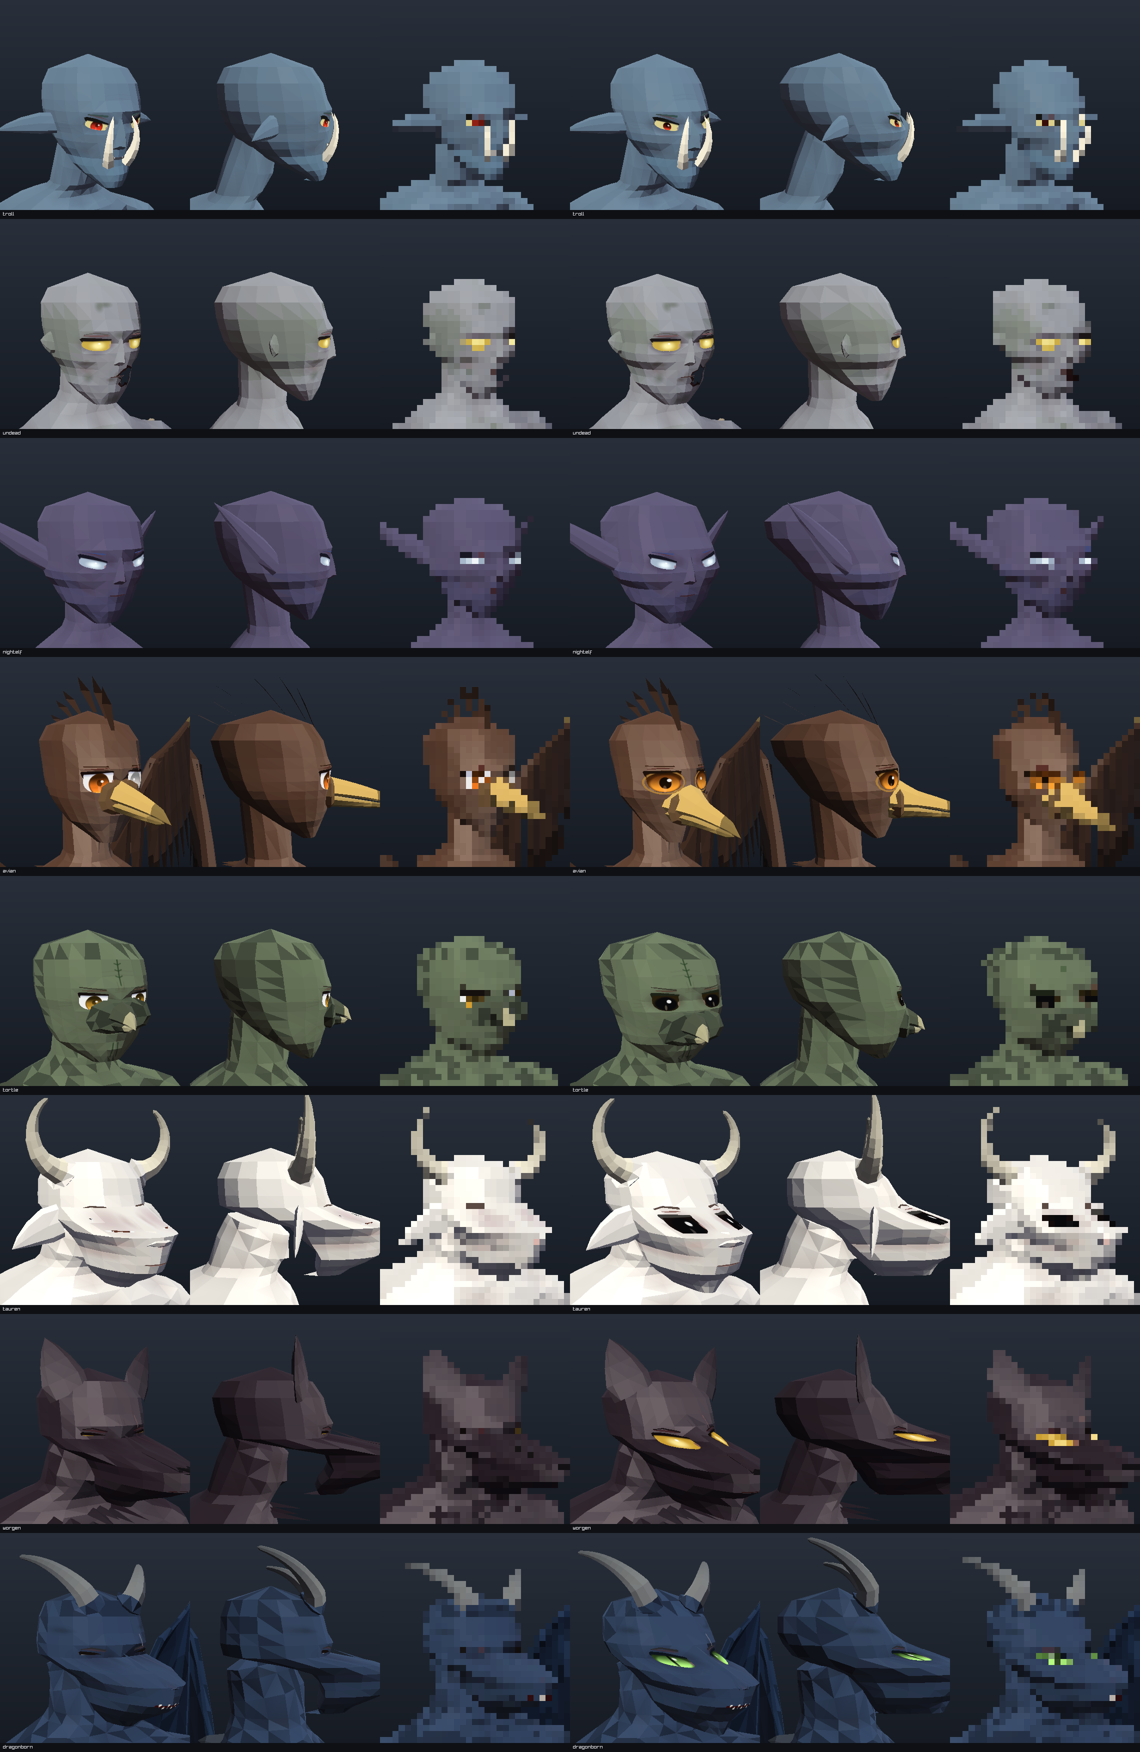
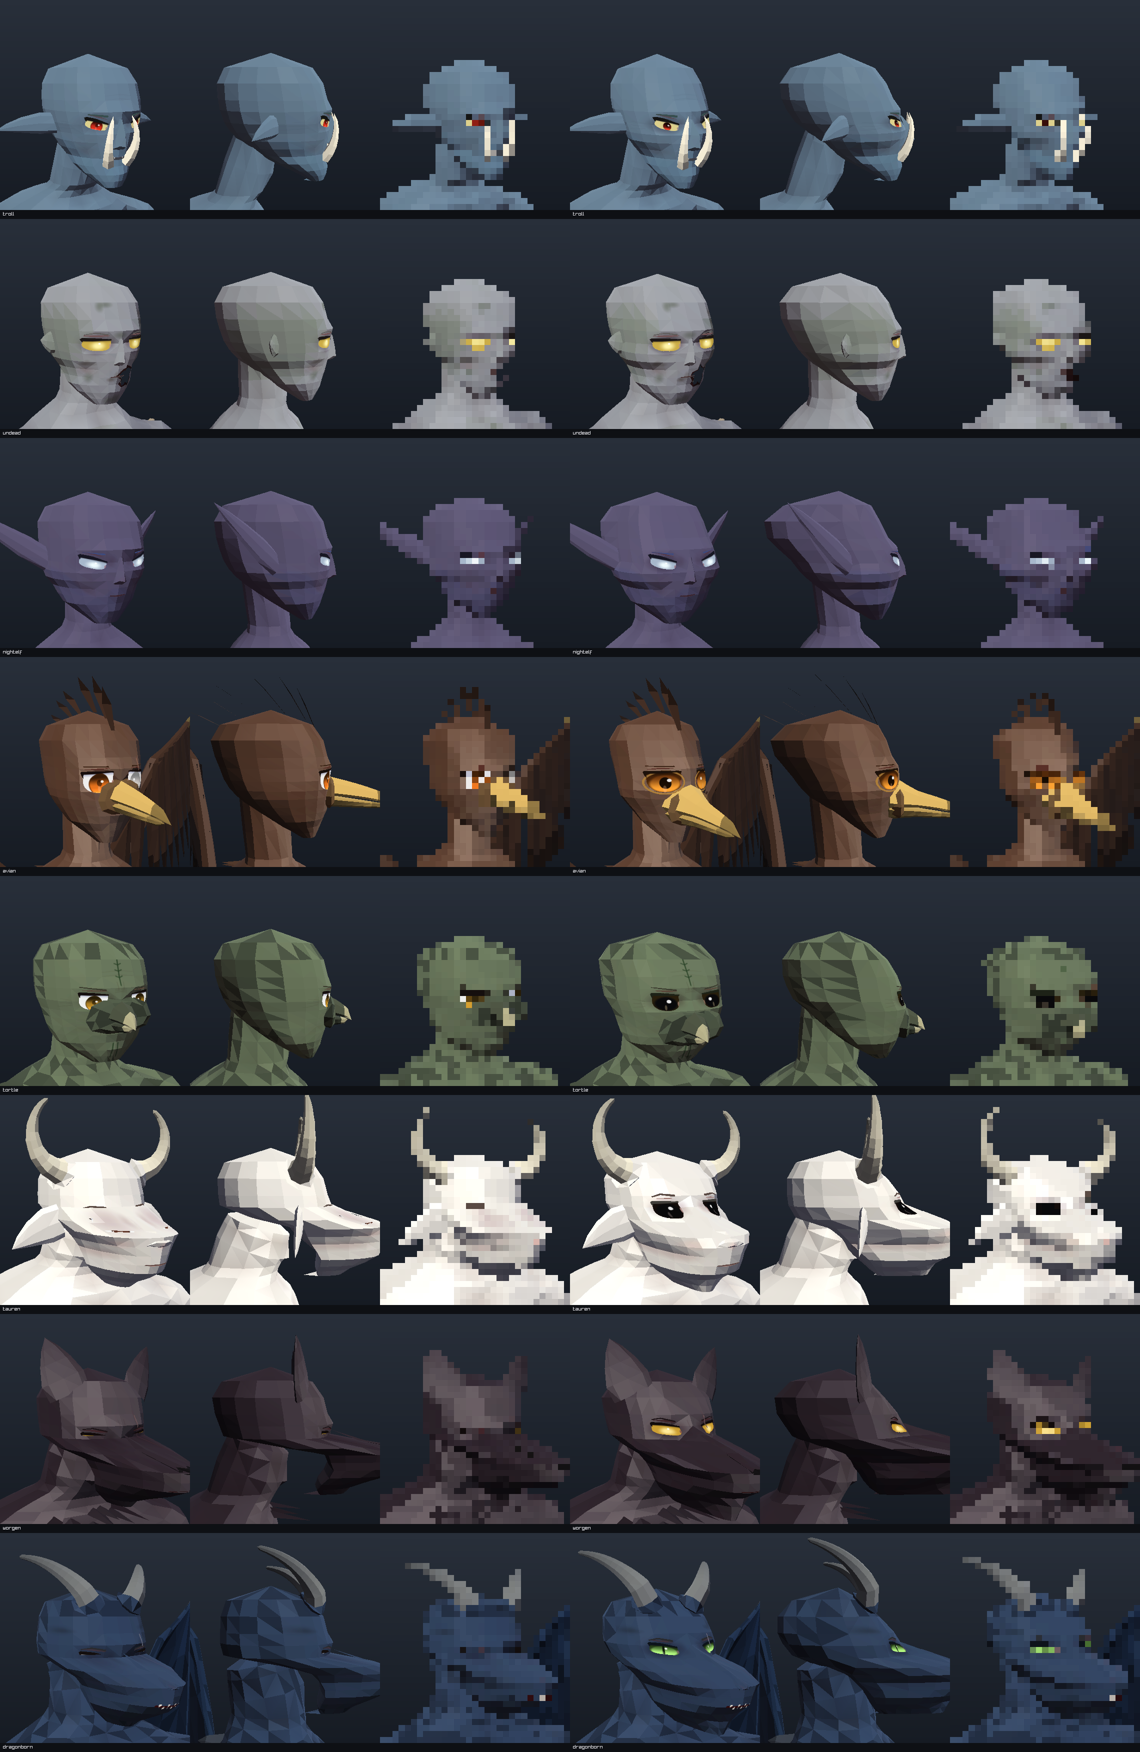
Eyes ride up on the skull above the snout
Snouted heads (tauren, worgen, dragonborn, saurian, beasts) raise the eye line by
eyeLift(g): painted eyes, decal window, sockets and brow relief all move together, so
the eyes sit on the skull above where the muzzle starts instead of on the snout.

Claude-Session: https://claude.ai/code/session_01F1xmFvDZS1791vgqUGMtaU

diff --git a/src/face.cpp b/src/face.cpp
@@ -202,15 +202,16 @@ void paintEyes(CellPainter& cp, const Genome& g, EyeExpr expr) {
     const EyeParams P = eyeParams(expr);
     const EyeShape S = eyeShapeFor(g);
     float W = S.W, Hh = S.Hh;
-    float ey = 0.462f, exOff = 0.188f * f.eyeSpacing;
+    const float lift = eyeLift(g);
+    float ey = 0.462f + lift, exOff = 0.188f * f.eyeSpacing;
     // A second pair (four-eyed peoples) sits below and a little wider, smaller and
     // without brows; the main pair moves up to make room.
     struct Row {
         float ey, ex, scale;
         bool main;
     };
-    std::vector<Row> rows{{0.462f, 0.188f * f.eyeSpacing, 1.0f, true}};
-    if (f.eyePairs >= 2) rows = {{0.506f, 0.180f * f.eyeSpacing, 0.86f, true}, {0.392f, 0.200f * f.eyeSpacing, 0.78f, false}};
+    std::vector<Row> rows{{0.462f + lift, 0.188f * f.eyeSpacing, 1.0f, true}};
+    if (f.eyePairs >= 2) rows = {{0.506f + lift, 0.180f * f.eyeSpacing, 0.86f, true}, {0.392f + lift, 0.200f * f.eyeSpacing, 0.78f, false}};
     const Vec3 lash = lerp(pal.brow * 0.4f, Vec3{0.08f, 0.05f, 0.05f}, 0.6f);
     const Vec3 skinDark = pal.skin * Vec3{0.70f, 0.56f, 0.54f};
     const float lidDrop = saturate(f.restLid + 0.18f * f.ageLines + (f.eyeShape == 5 ? 0.22f : 0.0f) + P.lidDrop);
@@ -652,18 +653,18 @@ void paintSkin(CellPainter& cp, const Genome& g) {
         st.bounds(lo, hi);
         cp.fill(st, Vec4(mul * 0.5f, a), lo, hi);
     };
-    const float ex = (f.eyePairs >= 2 ? 0.180f : 0.188f) * f.eyeSpacing, ey = f.eyePairs >= 2 ? 0.506f : 0.462f;
+    const float ex = (f.eyePairs >= 2 ? 0.180f : 0.188f) * f.eyeSpacing, ey = (f.eyePairs >= 2 ? 0.506f : 0.462f) + eyeLift(g);
     const float sx = (g.seed % 2 == 0) ? 1.0f : -1.0f;  // the side scars and marks favour
 
     // Eye sockets: shade under the brow ridge and around the eye, deeper for deep-set eyes.
     if (f.eyePairs >= 2)  // the lower, smaller pair (the main one is shaded below, moved up)
-        for (float sd : {1.0f, -1.0f}) soft({sd * 0.200f * f.eyeSpacing, 0.398f}, {0.095f, 0.050f}, {0.78f, 0.68f, 0.72f}, 0.40f + 0.50f * f.eyeDepth, 0.8f);
+        for (float sd : {1.0f, -1.0f}) soft({sd * 0.200f * f.eyeSpacing, 0.398f + eyeLift(g)}, {0.095f, 0.050f}, {0.78f, 0.68f, 0.72f}, 0.40f + 0.50f * f.eyeDepth, 0.8f);
     for (float sd : {1.0f, -1.0f}) {
         soft({sd * ex, ey + 0.020f}, {0.150f, f.eyePairs >= 2 ? 0.070f : 0.090f}, {0.80f, 0.70f, 0.74f}, 0.30f + 0.55f * f.eyeDepth, 0.8f);
         // Socket wells: a darker, tighter shadow round the eye that survives at game distance
         // (a dark well with a light point inside reads as an eye in two or three pixels).
         if (g.head.socket > 0.01f)
-            soft({sd * ex, ey + 0.006f}, {0.125f, f.eyePairs >= 2 ? 0.058f : 0.072f}, {0.42f, 0.36f, 0.40f}, 0.75f * g.head.socket * (1.0f - 0.75f * saturate(g.body.muzzle)), 0.6f);
+            soft({sd * ex, ey + 0.006f}, {0.125f, f.eyePairs >= 2 ? 0.058f : 0.072f}, {0.42f, 0.36f, 0.40f}, 0.75f * g.head.socket, 0.6f);
         soft({sd * 0.075f, ey + 0.012f}, {0.050f, 0.060f}, {0.78f, 0.68f, 0.70f}, 0.25f + 0.35f * f.eyeDepth);  // inner corner
         // Tired, puffy under-eyes.
         soft({sd * (ex + 0.005f), ey - 0.062f}, {0.085f, 0.024f}, {0.80f, 0.70f, 0.78f}, 0.55f * f.eyeBags);
@@ -857,7 +858,7 @@ Image paintFaceAtlas(const Genome& g) {
     auto eyeJob = [&](int i) {
         auto c = FaceLayout::eyeCell(EyeExpr(i));
         CellPainter cp(px, W, c[0], c[1], FaceLayout::kEyeCellW, FaceLayout::kEyeCellH, FaceLayout::kEyeX0,
-                       FaceLayout::kEyeX1, FaceLayout::kEyeS0, FaceLayout::kEyeS1);
+                       FaceLayout::kEyeX1, FaceLayout::kEyeS0 + eyeLift(g), FaceLayout::kEyeS1 + eyeLift(g));
         paintEyes(cp, g, EyeExpr(i));
     };
     auto mouthJob = [&](int i) {

diff --git a/src/head.cpp b/src/head.cpp
@@ -29,7 +29,7 @@ float Builder::muzzleDepth(float s) const {
     if (M <= 0.0f) return 0.0f;
     if (g.body.snout == 1) return M * 0.72f * smoothstep(0.445f, 0.355f, s) * (0.35f + 0.65f * smoothstep(0.02f, 0.24f, s));
     if (g.body.snout == 2) return M * 0.62f * smoothstep(0.46f, 0.36f, s) * (0.45f + 0.55f * smoothstep(0.0f, 0.22f, s));
-    return M * 0.46f * smoothstep(0.53f, 0.40f, s) * (0.50f + 0.50f * smoothstep(0.0f, 0.18f, s));
+    return M * 0.46f * smoothstep(0.50f, 0.38f, s) * (0.50f + 0.50f * smoothstep(0.0f, 0.18f, s));
 }
 
 SuperRing Builder::headRing(float s) const {
@@ -96,7 +96,8 @@ float Builder::faceRelief(float xn, float s) const {
     // sockets: the main pair higher under a higher brow, a smaller pair below it set a
     // little wider, a bony ridge between them and the cheekbones pushed down.
     const bool four = f.eyePairs >= 2;
-    const float browS = four ? 0.600f : 0.56f, eyeS = four ? 0.506f : 0.468f, cheekS = four ? 0.330f : 0.375f;
+    const float lift = eyeLift(g);
+    const float browS = (four ? 0.600f : 0.56f) + lift, eyeS = (four ? 0.506f : 0.468f) + lift, cheekS = four ? 0.330f : 0.375f;
     r += (0.006f + 0.026f * f.browRidge + 0.008f * f.eyeDepth) * bump((s - browS) / 0.045f) * bump(xn / 0.36f);
     // On a snout the socket groove would cut a trench across the muzzle: keep it shallow.
     const float snoutK = 1.0f - 0.8f * saturate(muzzleDepth(s) / 0.12f);
@@ -354,7 +355,7 @@ void Builder::buildEyelids() {
     struct Row {
         float ey, ex, scale;
     };
-    const Row rows[] = {{0.506f, 0.180f * f.eyeSpacing, 0.86f}, {0.392f, 0.200f * f.eyeSpacing, 0.78f}};
+    const Row rows[] = {{0.506f + eyeLift(g), 0.180f * f.eyeSpacing, 0.86f}, {0.392f + eyeLift(g), 0.200f * f.eyeSpacing, 0.78f}};
     Part& p = newPart();
     const int head = ch.rig.head;
     const Mat lid{g.palette.skin * 0.92f, MaterialClass::Skin};
@@ -444,7 +445,7 @@ void Builder::buildFaceDecals() {
         auto ok = [&](uint32_t a, uint32_t b, uint32_t c) {
             const Vec3 A = p.pos[a], B = p.pos[b], C = p.pos[c];
             const Vec3 n = normalize(cross(B - A, C - A), {0, 0, 1});
-            // Eyes on a snout sit on the steep sides of the face: keep them, or they vanish.
+            // The eyes keep steeper quads: on a snouted skull they sit where the face turns.
             return std::fabs(n.z) > (kind == SubmeshKind::FaceEyes ? 0.15f : 0.45f) && onHead[a] && onHead[b] && onHead[c];
         };
         for (int j = 0; j < ny; ++j)
@@ -458,7 +459,7 @@ void Builder::buildFaceDecals() {
     auto ec = FaceLayout::eyeCell(EyeExpr::Neutral);
     auto mc = FaceLayout::mouthCell(MouthExpr::Neutral);
     // Dense enough to follow the nose bridge and the sockets.
-    size_t eyes = patch(SubmeshKind::FaceEyes, FaceLayout::kEyeX0, FaceLayout::kEyeX1, FaceLayout::kEyeS0, FaceLayout::kEyeS1,
+    size_t eyes = patch(SubmeshKind::FaceEyes, FaceLayout::kEyeX0, FaceLayout::kEyeX1, FaceLayout::kEyeS0 + eyeLift(g), FaceLayout::kEyeS1 + eyeLift(g),
                         lod.headSeg, std::max(4, lod.headSeg / 3), ec[0], ec[1], FaceLayout::kEyeCellW, FaceLayout::kEyeCellH);
     size_t mouth = patch(SubmeshKind::FaceMouth, FaceLayout::kMouthX0, FaceLayout::kMouthX1, FaceLayout::kMouthS0,
                          FaceLayout::kMouthS1, std::max(6, lod.headSeg / 2), 8, mc[0], mc[1], FaceLayout::kMouthCellW,

diff --git a/include/chargen/genome.hpp b/include/chargen/genome.hpp
@@ -342,6 +342,10 @@ struct Genome {
     HeadForm head;             // last: snapshots saved before it existed load with a human skull
 };
 
+// How far the eyes sit above the human eye line (head units): on a snouted head they
+// ride up on the skull, above where the muzzle starts, instead of on the snout.
+inline float eyeLift(const Genome& g) { return g.body.muzzle * (g.body.snout == 0 ? 0.085f : 0.07f); }
+
 struct GenomeOptions {
     std::optional<Archetype> archetype;  // Natural when empty
     std::optional<Sex> sex;

diff --git a/README.md b/README.md
@@ -85,7 +85,8 @@ dele. `Genome::head` traz os eixos do crânio, todos em zero para o humano:
 Os eixos são contidos de propósito: um crânio coeso vale mais que um crânio diferente a qualquer
 custo. O aviano tem crânio redondo e o bico engrossa na raiz, nascendo da cara. Nos povos de
 focinho, a ponte do nariz desce da testa até o focinho e a mandíbula continua ligada ao pescoço,
-então não há degrau nem buraco sob os olhos; a órbita e as maçãs não cavam sulco no focinho.
+então não há degrau nem buraco sob os olhos; a órbita e as maçãs não cavam sulco no focinho. Os
+olhos sobem junto com o focinho (`eyeLift`): ficam no crânio, acima de onde o focinho começa.
 
 E um **vocabulário de olhos** (`EyeLook`) pensado para 2 ou 3 pixels: o que lê de longe é contraste
 de valor (órbita escura com um ponto claro), não desenho.
